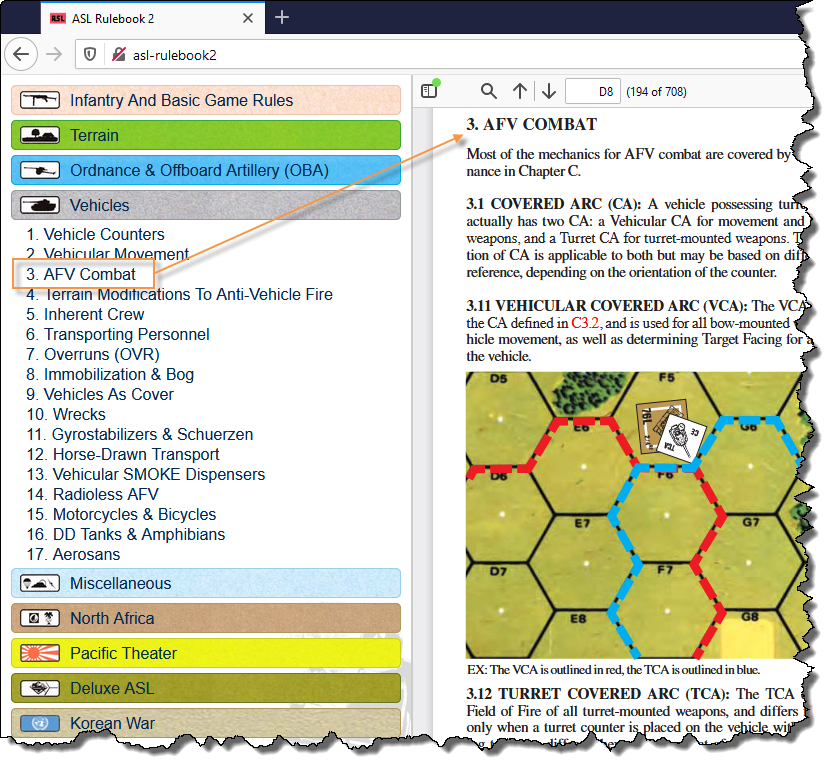
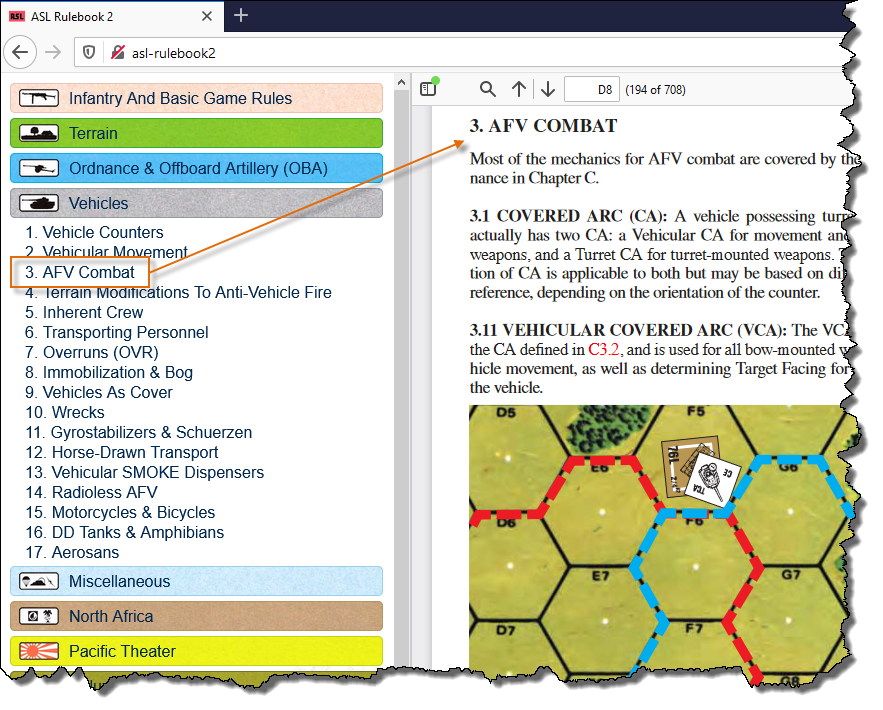
Added Chapter H.

diff --git a/doc/features/index.html b/doc/features/index.html
@@ -20,7 +20,7 @@
 <p> And if the rule has any associated footnotes, these will be shown in a popup.
 
 <p style="margin-top:1.5em;"> You can also browse the ASLRB by chapter: <br>
-<img src="images/chapters.png" class="imageZoom" style="margin:1em 0 0 2em;width:300px;">
+<img src="images/chapters.png" class="imageZoom" style="margin:1em 0 0 2em;width:250px;">
 
 <br><br>
 

diff --git a/asl_rulebook2/webapp/static/css/chapters.css b/asl_rulebook2/webapp/static/css/chapters.css
@@ -5,6 +5,7 @@
 .chapter-e { border: 1px solid #9ad0e9 !important ; }
 .chapter-f { border: 1px solid #b4965f !important ; }
 .chapter-g { border: 1px solid #c6cf21 !important ; }
+.chapter-h { border: 1px solid #f3a954 !important ; }
 .chapter-j { border: 1px solid #6e7723 !important ; }
 .chapter-w { border: 1px solid #ad965d !important ; }
 

diff --git a/asl_rulebook2/extract/content.py b/asl_rulebook2/extract/content.py
@@ -29,11 +29,12 @@ _DISABLE_SORT_ITEMS = [
     "E28", "E29", "E30", # Chapter E footnotes
     "F20", "F21", # Chapter F footnotes
     "G48", "G49", "G50", # Chapter G footnotes
+    "H9", # Chapter H footnotes
 ]
 
 _DEFAULT_ARGS = {
     "chapter-a": "42-102", "chapter-b": "109-154", "chapter-c": "158-183", "chapter-d": "187-213",
-    "chapter-e": "216-245", "chapter-f": "247-267", "chapter-g": "270-319",
+    "chapter-e": "216-245", "chapter-f": "247-267", "chapter-g": "270-319", "chapter-h": "322-324,326-330",
     "chapter-j": "593",
     "chapter-w": "647-664",
     "content_vp_left": 0, "content_vp_right": 565, "content_vp_top": 715, "content_vp_bottom": 28, # viewport
@@ -95,6 +96,8 @@ class ExtractContent( ExtractBase ):
                 break
             if page_no not in page_index:
                 self.log_msg( "progress", "- Skipping page {}.", page_no )
+                if curr_chapter_pageno is not None:
+                    curr_chapter_pageno += 1
                 continue
             if not self._curr_chapter or self._curr_chapter != page_index[page_no]:
                 # we've found the start of a new chapter
@@ -289,7 +292,7 @@ class ExtractContent( ExtractBase ):
             else:
                 self._curr_footnote[1] += elem.get_text()
 
-    def _save_footnote( self ):
+    def _save_footnote( self ): #pylint: disable=too-many-branches
         """Save a parsed footnote."""
 
         if not self._curr_footnote:
@@ -330,6 +333,11 @@ class ExtractContent( ExtractBase ):
                 return
             if footnote_id == "9" and "9" in footnote_ids:
                 footnote_id = "29"
+
+        # check if we've gone past the end of the Chapter H footnotes
+        if self._curr_chapter == "H" and len(footnote_id) > 1:
+            self._curr_footnote = None
+            return
 
         # clean up the content
         content = re.sub( r"\s+", " ", content ).strip()
@@ -388,9 +396,15 @@ class ExtractContent( ExtractBase ):
                 )
 
         # check for the credits at the end of the Chapter F footnotes
-        pos = content.find( "WEST OF ALAMEIN CREDITS" )
-        if pos > 0:
-            content = content[:pos]
+        if self._curr_chapter == "F":
+            pos = content.find( "WEST OF ALAMEIN CREDITS" )
+            if pos > 0:
+                content = content[:pos]
+        # check for the start of the vehicle notes at the end of the Chapter H footnotes
+        if self._curr_chapter == "H":
+            pos = content.find( "GERMAN VEHICLE NOTES" )
+            if pos > 0:
+                content = content[:pos]
 
         # save the footnote
         self._footnotes[ self._curr_chapter ].append( {
